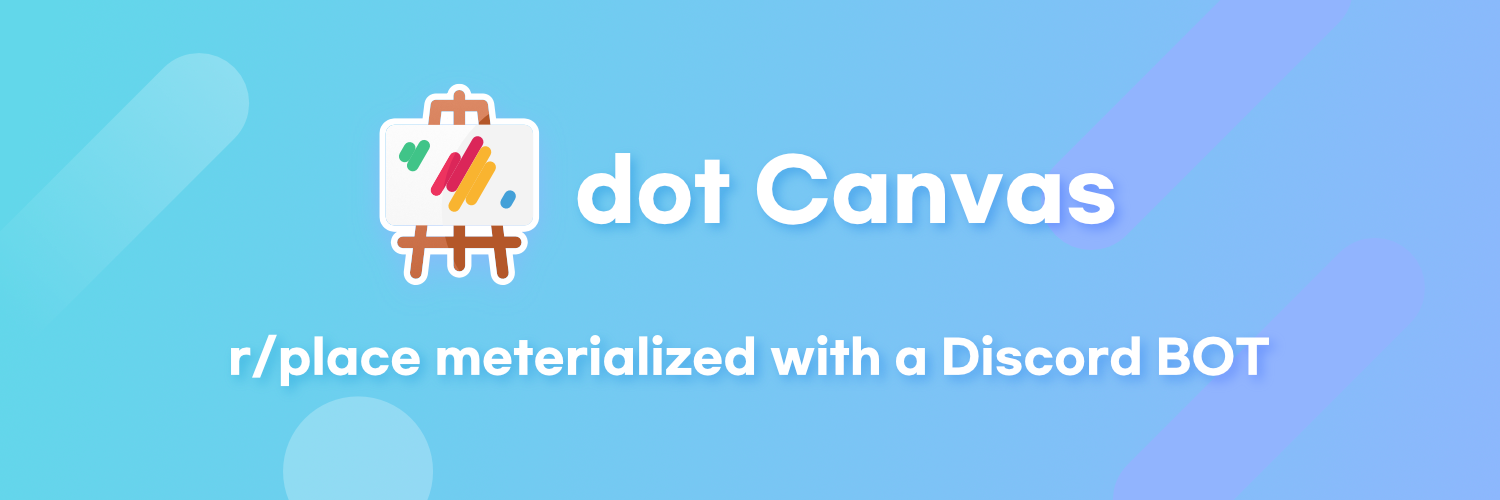
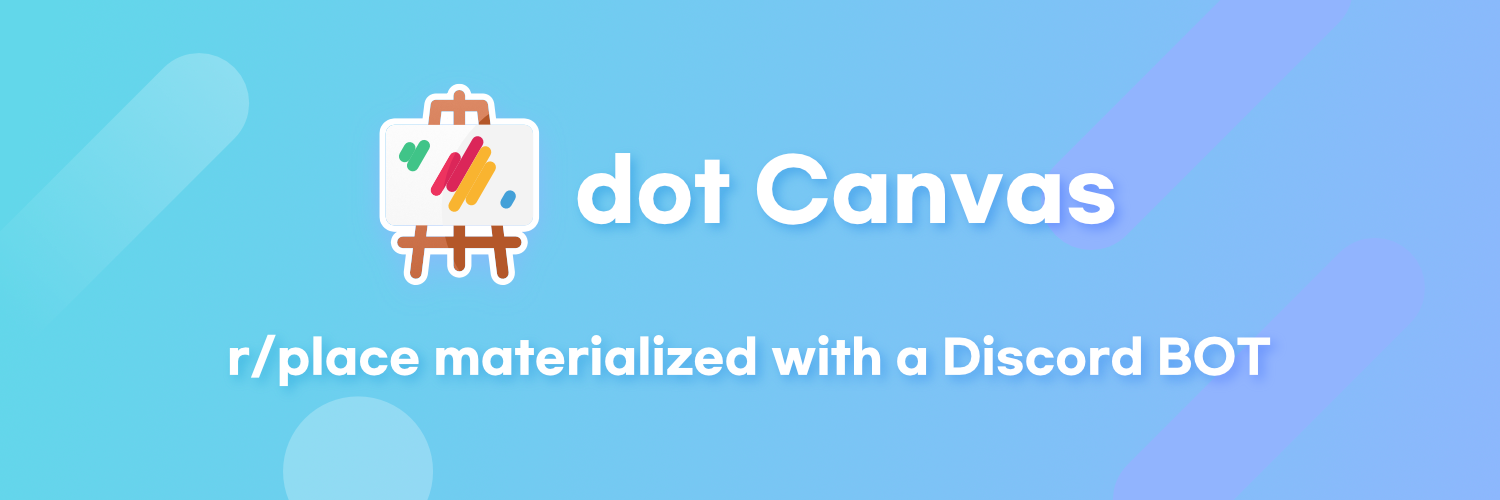
docs(readme): Add comments and correct typos

Changed region(s): [[0.1533, 0.69, 0.828, 0.75]]

diff --git a/README.md b/README.md
@@ -1,6 +1,6 @@
 ![Thumbnail](./images/dotcanvas_en.png)  
 # dot Canvas
-> **r/place** meterialized with a Discord BOT  
+> **r/place** materialized with a Discord BOT  
 
 You can invite the BOT [Here](https://discord.com/api/oauth2/authorize?client_id=963240769861341224&permissions=414464724032&scope=bot%20applications.commands).  
 
@@ -20,7 +20,7 @@ You can check the canvas filled up to now through the `canvas` command.
 The canvas is initialized at midnight on the 1st of every month.
 * * *
 ## CANVAS
-![canvas](https://dotcanvas.neoration.me/image)
+You can [Click Here](https://dotcanvas.neoration.me/image) to see it.  
 If the bot server is not working, it may not be visible.  
 * * *
 ## Getting Started
@@ -35,6 +35,7 @@ CLIENT_ID=Write-Your-Discord-Bot-ID
 MONGO_URI=Write-Your-MongoDB-URI
 DATABASE_NAME=Write-Your-MongoDB-Database-Name
 IMAGE_URL=Write-Canvas-ImageURL
+ERROR_LOG_CHANNEL=Write-Your-Error-Log-Channel
 ```  
 
 ### To check the port

diff --git a/docs/korean.md b/docs/korean.md
@@ -20,7 +20,7 @@
 캔버스는 매 달 1일 0시에 초기화됩니다.
 * * *
 ## 지금까지 완성된 캔버스
-![캔버스](https://dotcanvas.neoration.me/image)
+[여기](https://dotcanvas.neoration.me/image)를 클릭해서 볼 수 있어요.  
 봇 서버가 작동하지 않는 경우, 보이지 않을 수 있어요.  
 * * *
 ## 시작하기
@@ -35,6 +35,7 @@ CLIENT_ID=디스코드-봇-ID-입력
 MONGO_URI=MongoDB-연결URI-입력
 DATABASE_NAME=MongoDB-데이터베이스-이름-입력
 IMAGE_URL=캔버스-이미지URL-입력
+ERROR_LOG_CHANNEL=에러-로그-처리-채널ID-입력
 ```  
 
 ### 포트 확인하기
